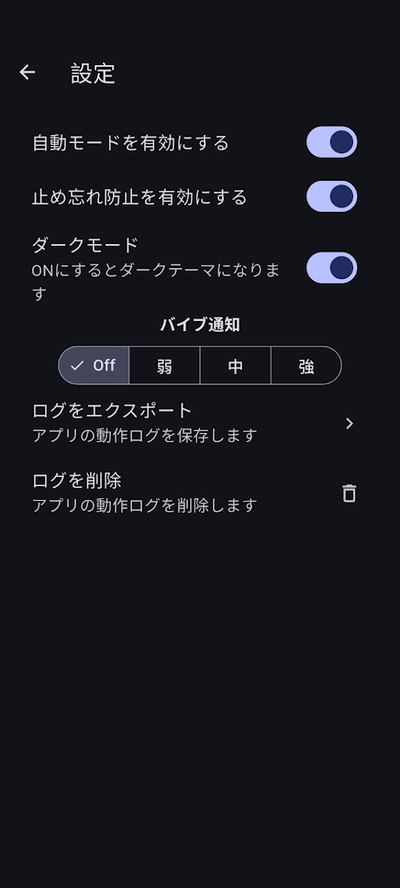
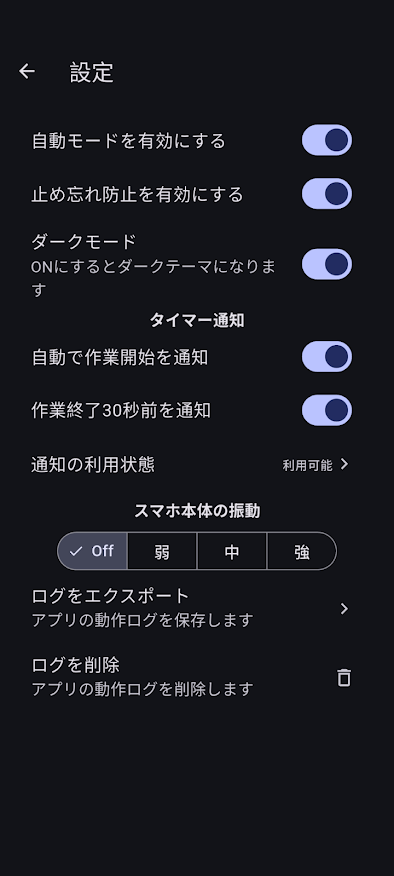
docs: add timer notification and smartwatch setup guide

diff --git a/docs/ptune/notifications.md b/docs/ptune/notifications.md
@@ -1,0 +1,69 @@
+# タイマー通知設定
+
+## 通知の仕組み
+
+ptune の通知をスマホで受け取り、連携設定によりスマートウォッチにも表示します。スマートウォッチへの転送には、対応するスマホとメーカーの連携アプリが必要です。
+
+## ptune とスマホの設定
+
+### 1. ptune で通知を選ぶ
+
+![ptune の通知設定](../img/screenshots/ptune/settings.png){ width="300" }
+
+「設定」の「タイマー通知」で、必要な通知を ON にします。
+
+| 設定 | 内容 |
+| --- | --- |
+| 自動で作業開始を通知 | 自動モードでの作業開始を通知します。 |
+| 作業終了30秒前を通知 | 作業終了が近いことを通知します。 |
+| 通知の利用状態 | スマホ側で通知を利用できる状態か確認します。 |
+| スマホ本体の振動 | Off／弱／中／強から選びます。スマートウォッチの振動はスマートウォッチ側で設定します。 |
+
+### 2. スマホで通知を許可する
+
+ptune の「通知の利用状態」を開き、必要に応じてスマホ側の設定を確認します。「利用可能」でも、スマートウォッチへの転送設定は別途必要です。
+
+**Android**
+
+スマホの「設定 → アプリ → ptune → 通知」で「ptune のすべての通知」を ON にします。通知の表示を許可する設定です。
+
+通知カテゴリがある場合は、該当カテゴリも有効にします。「通知ドット」はアイコン上の印なので、任意です。
+
+「アラームとリマインダー」の許可を求められた場合は、ptune の「アラームとリマインダーの設定を許可する」を ON にします。指定時刻に処理を実行するための許可で、通知の表示許可とは別です。
+
+参考：[Android の通知設定](https://support.google.com/android/answer/9079661?hl=ja) ／ [アラームとリマインダーの権限](https://developer.android.com/develop/background-work/services/alarms?hl=ja#exact-permission-declare)
+
+**iPhone**
+
+「設定 → 通知 → ptune」で通知を許可します。時刻指定の通知要約から外し、集中モードを使う場合は ptune の通知を許可します。
+
+参考：[iPhone の通知設定](https://support.apple.com/ja-jp/guide/iphone/iph7c3d96bab/ios)
+
+## スマートウォッチ連携（Garmin の例）
+
+他メーカーでも、連携アプリやスマートウォッチ側で ptune の通知を許可します。設定名は OS・機種・アプリのバージョンにより異なります。
+
+Garmin Connect でスマートウォッチをペアリングし、対象デバイスの「スマート通知」を有効にします。
+
+**Android：Garmin Connect → メニュー → 設定 → 通知 → アプリの通知**を開きます。
+
+ptune だけを転送する場合は、次のように設定します。
+
+| 設定 | 選択 |
+| --- | --- |
+| 通知 | ON：アプリ通知の転送を有効にします。 |
+| すべてのアプリケーション | OFF：転送対象を個別に選びます。 |
+| ptune | ON：ptune を転送対象にします。 |
+
+「サイレントモードの動作に従う」は、スマホのサイレント状態を反映する設定です。サイレント時にも受け取りたい場合は OFF を試してください。
+
+**iPhone：**転送するアプリは基本的に iOS の通知設定で管理します。Android と同じアプリ一覧での選択を前提にしません。
+
+参考：[Garmin の通知管理（OS 別）](https://www8.garmin.com/manuals/webhelp/GUID-2C274FD2-F0C3-445C-B0AC-700FECCE12E9/EN-US/GUID-5A95D297-7177-4745-ADAF-AC4855E0B7FA.html)
+
+## 通知が届かない場合
+
+- **スマホにも出ない：**ptune の通知設定とスマホの通知許可、アラームの許可、集中モードなどの通知制限を確認します。
+- **スマホには出るがスマートウォッチに出ない：**スマホとスマートウォッチの接続、連携アプリの転送設定・通知アクセス権限、スマートウォッチのおやすみモードを確認します。
+
+参考：[Garmin の通知トラブルシューティング](https://support.garmin.com/en-US/?faq=jusyWiwXtF4512Rb8jnLOA)
